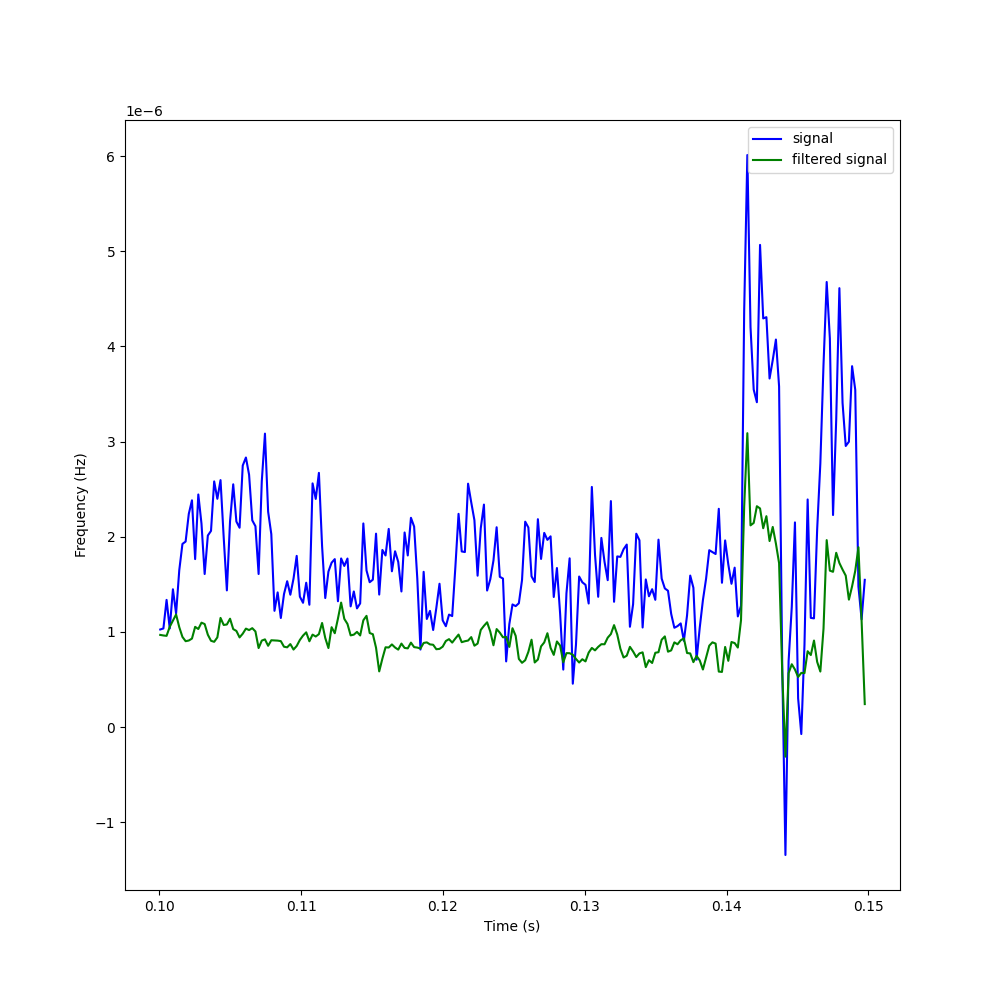
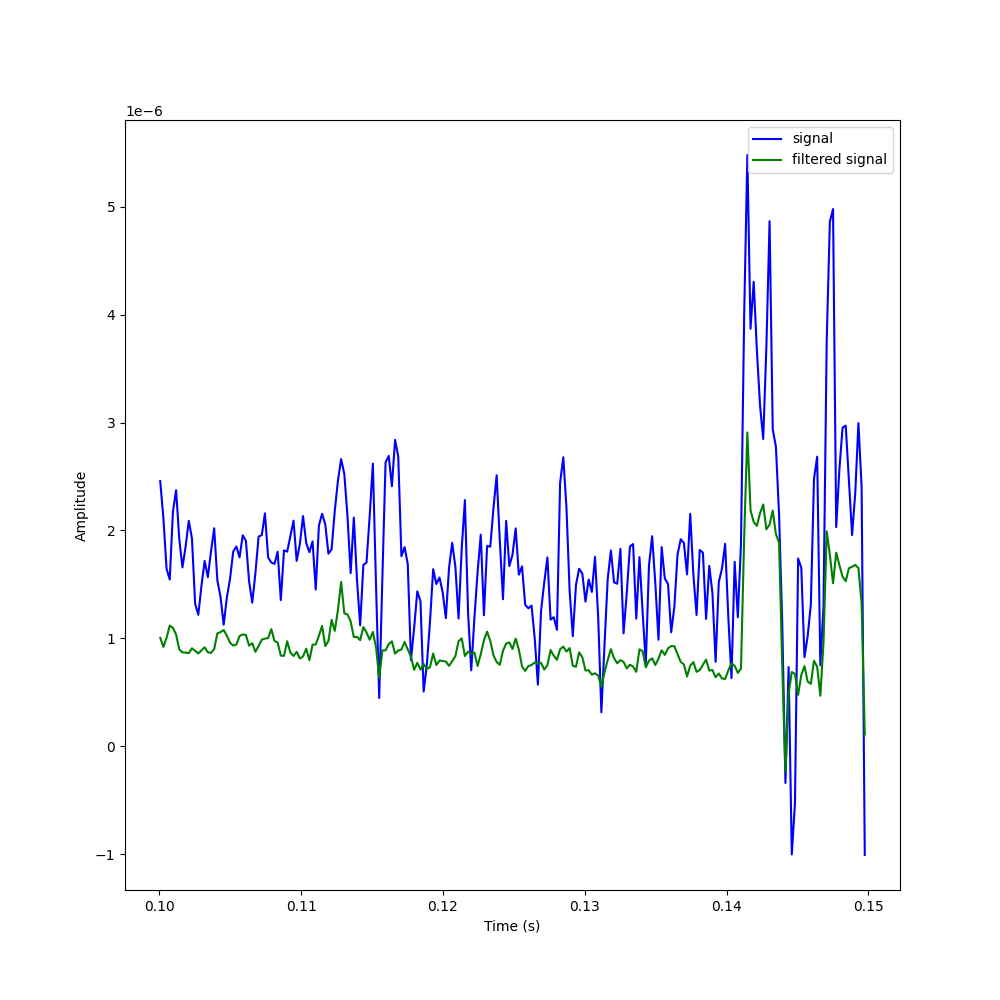
plotting amplitude spectrum

diff --git a/SourceCode/lowpass.py b/SourceCode/lowpass.py
@@ -21,66 +21,39 @@ def runLowpass(cutoffFrequency, filterOrder):
     number_of_time_samples = md['nT'];
     sampling_duration = number_of_time_samples * dT;
     time = np.linspace(0, sampling_duration, number_of_time_samples, endpoint=False)
-    
     return (time, data_T, lowpassData, number_of_time_samples, sampling_freq)
 
-def testFunc1(signal,numSamples, signalFreq):
-    yf = rfft(signal);
+def plotAmplitudeSpectrum(signal,filteredSignal,channelNumber,numSamples, signalFreq):
+    signal = np.transpose(signal);
+    filteredSignal = np.transpose(filteredSignal);
+    yf = rfft(signal[:,channelNumber]);
     xf = rfftfreq(numSamples, signalFreq);
-    print(signal.shape, file=sys.stderr);
-    print(yf.shape, file=sys.stderr);
-    print(numSamples, file=sys.stderr);
-    print(signalFreq, file=sys.stderr);
-    plt.plot(xf, np.abs(yf))
+    yf1 = rfft(filteredSignal[:,channelNumber]);
+    plt.plot(xf, np.abs(yf), 'b-', label='amplitude spectrum of signal')
+    plt.plot(xf, np.abs(yf1), 'r-', label='amplitude spectrum of filtered signal')
+    plt.legend();
     plt.xlabel("Frequency (Hz)");
     plt.ylabel("Amplitude");
     plt.savefig('figures/amplitudeSpectrum.png')
     plt.close()
 
-def testFunc(signal,filteredSignal):
-    #signal_T = np.transpose(signal);
-    #filteredSignal_T = np.transpose(filteredSignal);
-    print(signal.shape, file=sys.stderr);
-    print(filteredSignal.shape, file=sys.stderr);
-    rfftPre = np.fft.rfft(signal);
-    rfftPost = np.fft.rfft(filteredSignal);
-    print(np.abs(rfftPre).shape, file=sys.stderr);
-    
-    return (np.abs(rfftPre), np.abs(rfftPost))
 
-def plotAmplitudeSpectrum(time,signalOnChannel,filteredSignalOnChannel, rfftSignal, rfftFilteredSignal, channelNumber, startTime, endTime):
-    #print(signalOnChannel, file=sys.stderr);
-    #print(filteredSignalOnChannel.shape, file=sys.stderr);
-    
-    
-    print(signalOnChannel.shape, file=sys.stderr);
-    print(rfftSignal.shape, file=sys.stderr);
-    plt.plot(signalOnChannel, rfftSignal, 'b-', label='amplitude spectrum of signal')
-    #plt.plot(time, np.transpose(rfftFilteredSignal), 'g-', label='amplituded spectrum of filtered signal')
-    plt.xlabel("Frequency (Hz)");
-    plt.ylabel("Amplitude");
-    plt.savefig('figures/amplitudeSpectrum.png')
-    plt.close()
+
 
 def plotLowpass(time,signal,filteredSignal,channelNumber,startTime,endTime):
     temp = np.where(time >= startTime);
     first = min(min(temp));
     temp = np.where(time <= endTime);
     last = max(max(temp));
-    fig = plt.figure(figsize=(10,10))
-    #print(signal.shape, file=sys.stderr);
-    #print(filteredSignal.shape, file=sys.stderr);
-    #print(signal[first:last,channelNumber], file=sys.stderr);
-    #print(filteredSignal[first:last, channelNumber], file=sys.stderr);
+    fig = plt.figure(figsize=(10,10));
     plt.plot(time[first:last], signal[first:last,channelNumber], 'b-', label='signal')
     plt.plot(time[first:last], filteredSignal[first:last, channelNumber], 'g-', label='filtered signal')
     plt.xlabel("Time (s)");
-    plt.ylabel("Frequency (Hz)");
+    plt.ylabel("Amplitude");
     plt.legend();
     plt.savefig('figures/lowpassFigure.png')
     plt.close()
-    return (signal[first:last,channelNumber], filteredSignal[first:last, channelNumber])
-
+    
 def lowpass(data, freq, df, corners=4, zerophase=False):
     """
     Butterworth-Lowpass Filter.

diff --git a/Examples/lowpassEx.py b/Examples/lowpassEx.py
@@ -18,8 +18,8 @@ startTime = 0.10;
 endTime = 0.15;
 
 #Plot lowpass filter on channelNumber
-(signal_on_channel, filtered_signal_on_channel) = lowpass.plotLowpass(time,signal,filtered_signal,channelNumber,startTime,endTime);
-#lowpass.testFunc1(signal_on_channel, num_samples, sample_freq);
+lowpass.plotLowpass(time,signal,filtered_signal,channelNumber,startTime,endTime);
+lowpass.plotAmplitudeSpectrum(signal, filtered_signal, channelNumber, num_samples, sample_freq);
 #(signal_rfft, filtered_signal_rfft) = lowpass.testFunc(signal_on_channel,filtered_signal_on_channel);
 #lowpass.plotAmplitudeSpectrum(time,signal_rfft, filtered_signal_rfft,preAmp, postAmp, channelNumber, startTime, endTime);
 
